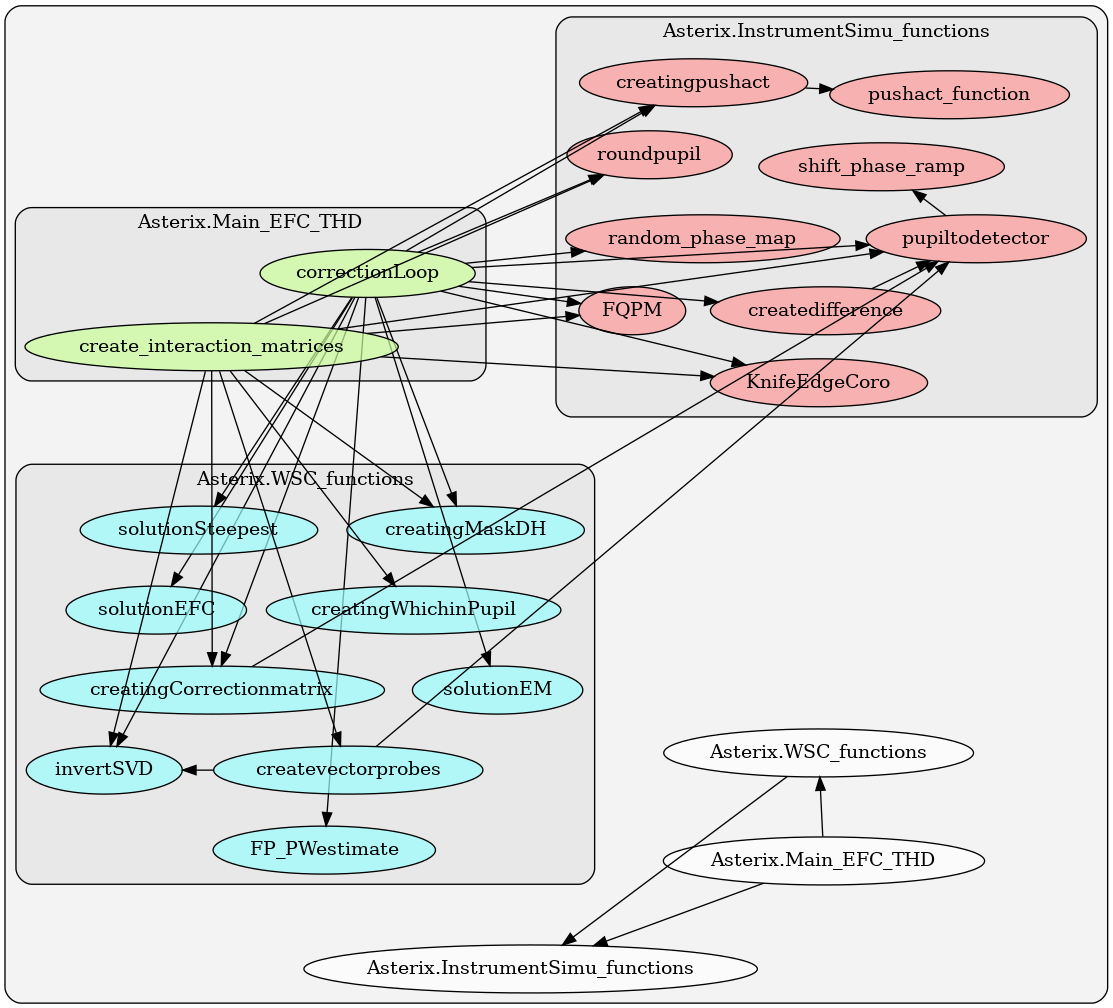
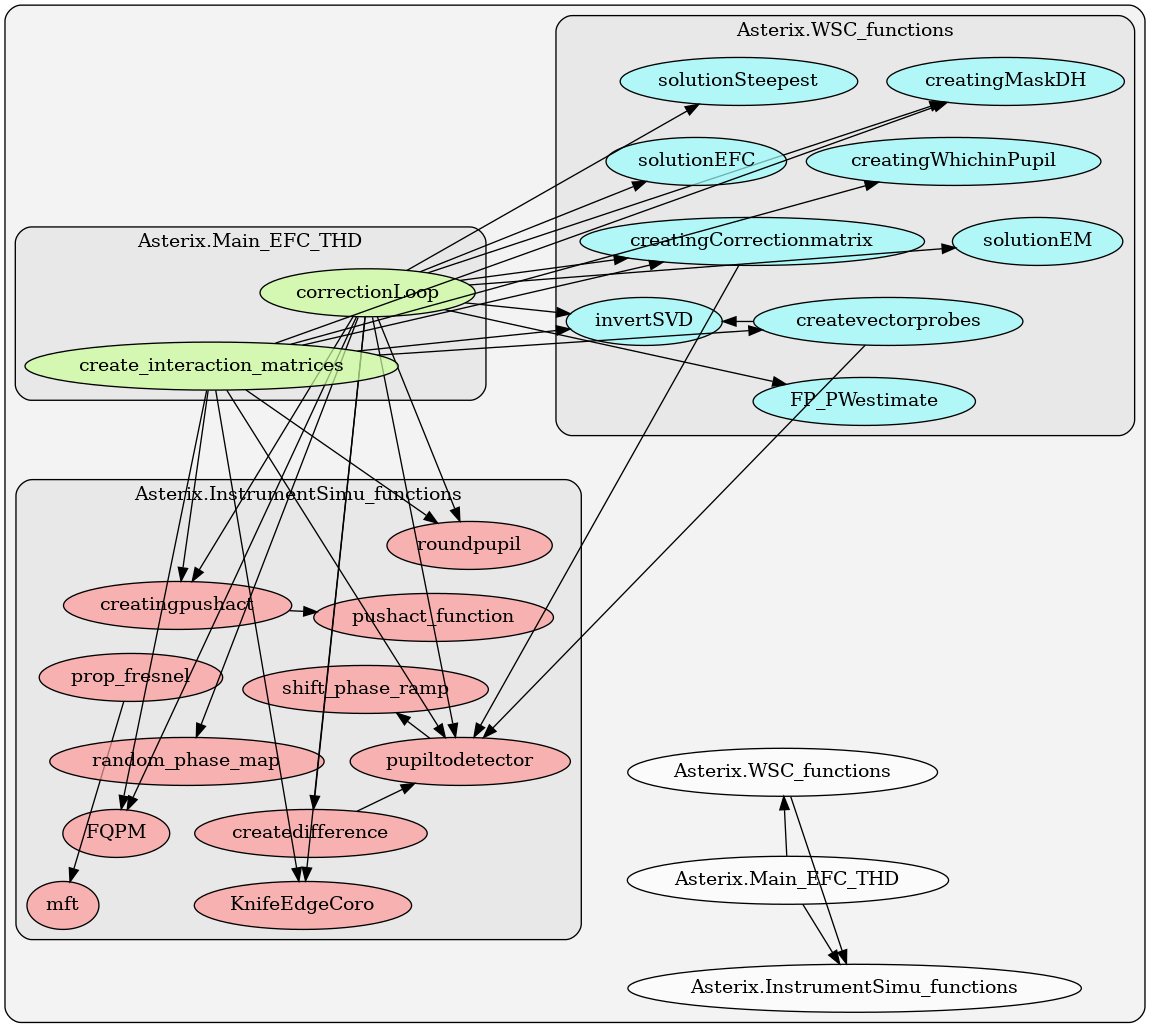
Fresnel propagator and MFT

diff --git a/Asterix/InstrumentSimu_functions.py b/Asterix/InstrumentSimu_functions.py
@@ -477,3 +477,122 @@ def random_phase_map(dim_im, phaserms, rhoc, slope):
     phase = np.real(np.fft.ifft2(product))
     phase = phase / np.std(phase) * phaserms
     return phase
+
+
+def mft(pup, dimft, nbres, xshift=0,yshift=0,inv=-1):
+    """ --------------------------------------------------
+    MFT  - Return the Matrix Direct Fourier transform (MFT) of pup
+    (cf. Soummer et al. 2007, OSA)
+
+    Parameters
+    ----------
+    pup : 2D array (complex or real)
+         Entrance pupil.
+         CAUTION : pup has to be centered on (dimpup/2+1,dimpup/2+1)
+         where dimpup is the pup array dimension
+
+    dimft : integer
+           Dimension of the output
+
+    nbres : float
+           Number of spatial resolution elements
+
+    xshift : float
+            center of the output array in the x direction
+
+    yshift : float
+            center of the output array in the y direction    
+
+    inv : integer
+            direct MFT if 1
+            indirect MFT if -1 (default)
+
+    Returns
+    ------
+    result : 2D array (complex)
+            MFT of pup centered on the pixel (dimft/2D+1+xhift,dimft/2D+1+yxhift)
+            dimension is dimft x dimft
+
+    AUTHOR : Raphaël Galicher
+
+    REVISION HISTORY :
+    Revision 1.1  2020-01-22 Raphaël Galicher
+    Initial revision (from MFT.pro written in IDL)
+
+    -------------------------------------------------- """
+    
+    dimpup = pup.shape[0]
+
+    xx0 = np.arange(dimpup)/dimpup - 0.5
+    uu0 = ((np.arange(dimft)-xshift)/dimft - 0.5)*nbres
+    uu1 = ((np.arange(dimft)-yshift)/dimft - 0.5)*nbres
+    
+    if inv == 1:
+        norm0 = (nbres/dimpup)**2
+    else:
+        norm0 = ((1.*nbres)**2/(1.*dimft)**2/(1.*dimpup)**2)
+
+    AA = np.exp(-inv*1j*2*np.pi*np.outer(uu0,xx0))
+    BB = np.exp(-inv*1j*2*np.pi*np.outer(xx0,uu1))
+    result = norm0*np.matmul(np.matmul(AA,pup),BB)
+    return result
+
+def prop_fresnel(pup, lam, z, dx):
+    """ --------------------------------------------------
+    Fresnel propagation of pup along a distance z in a collimated beam
+    and in Free space
+
+    Parameters
+    ----------
+    pup : 2D array (complex or real)
+         electric field at z=0
+         CAUTION : pup has to be centered on (dimpup/2+1,dimpup/2+1)
+         where dimpup is the pup array dimension
+
+    lam : float
+         wavelength in meter
+
+    z : float
+         distance of propagation
+
+    dx : float
+         pixel size in the pup array in meter
+
+    Returns
+    ------
+    pup_z : 2D array (complex)
+            electric field after propagating in free space along
+            a distance z
+
+    AUTHOR : Raphaël Galicher
+
+    REVISION HISTORY :
+    Revision 1.1  2020-01-22 Raphaël Galicher
+    Initial revision
+
+    -------------------------------------------------- """
+# dimension of the input array   
+    dim=pup.shape[0]
+
+# Zoom factor to get the same spatial scale in the input and output array
+    fac = dx**2/(lam*z)
+    if fac > 3e-3:
+        print('need to increase lam or z or 1/dx')
+        return -1
+    fac = fac*dim
+
+# create a 2D-array of distances from the central pixel
+    u, v = np.meshgrid(
+    np.arange(dim) - dim / 2,
+    np.arange(dim) - dim / 2)
+    rho = np.hypot(v, u)
+# Fresnel factor that applies before Fourier transform
+    H = np.exp(-1j*np.pi*rho**2*fac/dim)
+
+# Fourier transform using MFT
+    result = mft(pup*H,dim,dim*fac)
+
+# Fresnel factor that applies after Fourier transform    
+    result = result*np.exp(1j*2*np.pi*z/lam)*np.exp(-1j*np.pi*rho**2/fac/dim)
+
+    return result

diff --git a/Asterix/WSC_functions.py b/Asterix/WSC_functions.py
@@ -114,7 +114,7 @@ def createvectorprobes(wavelength, entrancepupil, coro_mask, lyot_mask,
                                   lyot_mask,
                                   perfect_coro=True,
                                   perfect_entrance_pupil=entrancepupil) /
-            np.sqrt(maxPSF))
+            np.square(maxPSF))
         deltapsik[k] = proc.resampling(deltapsikbis, dimimages)
         k = k + 1
 
@@ -279,7 +279,7 @@ def creatingCorrectionmatrix(entrancepupil,
             lyot_mask,
             perfect_coro=False,
             perfect_entrance_pupil=entrancepupil,
-        ) / np.sqrt(maxPSF))
+        ) / np.square(maxPSF))
         Gvector = proc.resampling(Gvector, dimimages)
         Gmatrixbis[0:int(np.sum(mask)),
                    k] = np.real(Gvector[np.where(mask == 1)]).flatten()

diff --git a/Asterix/Main_EFC_THD.py b/Asterix/Main_EFC_THD.py
@@ -898,7 +898,7 @@ def correctionLoop(parameter_file,
                                                       contrast_to_photons)
 
         plt.clf()
-        plt.imshow(np.log10(imagedetector[k + 1]), vmin=-10, vmax=-4)
+        plt.imshow(np.log10(imagedetector[k + 1]), vmin=-8, vmax=-5)
         plt.colorbar()
         plt.pause(0.01)
         previousmode = mode
